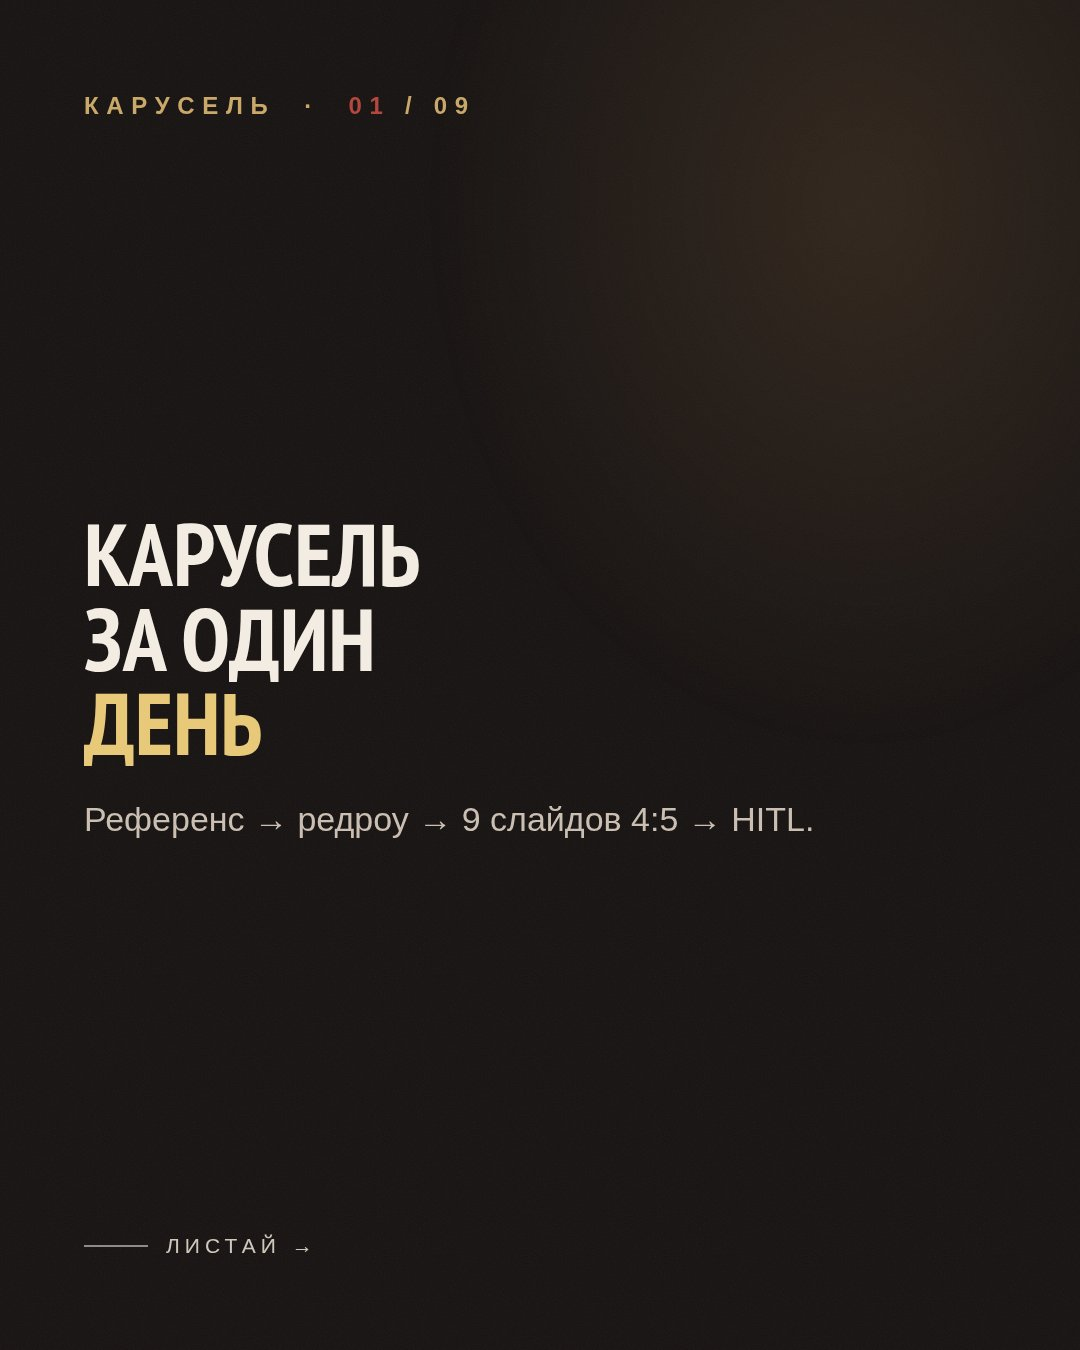
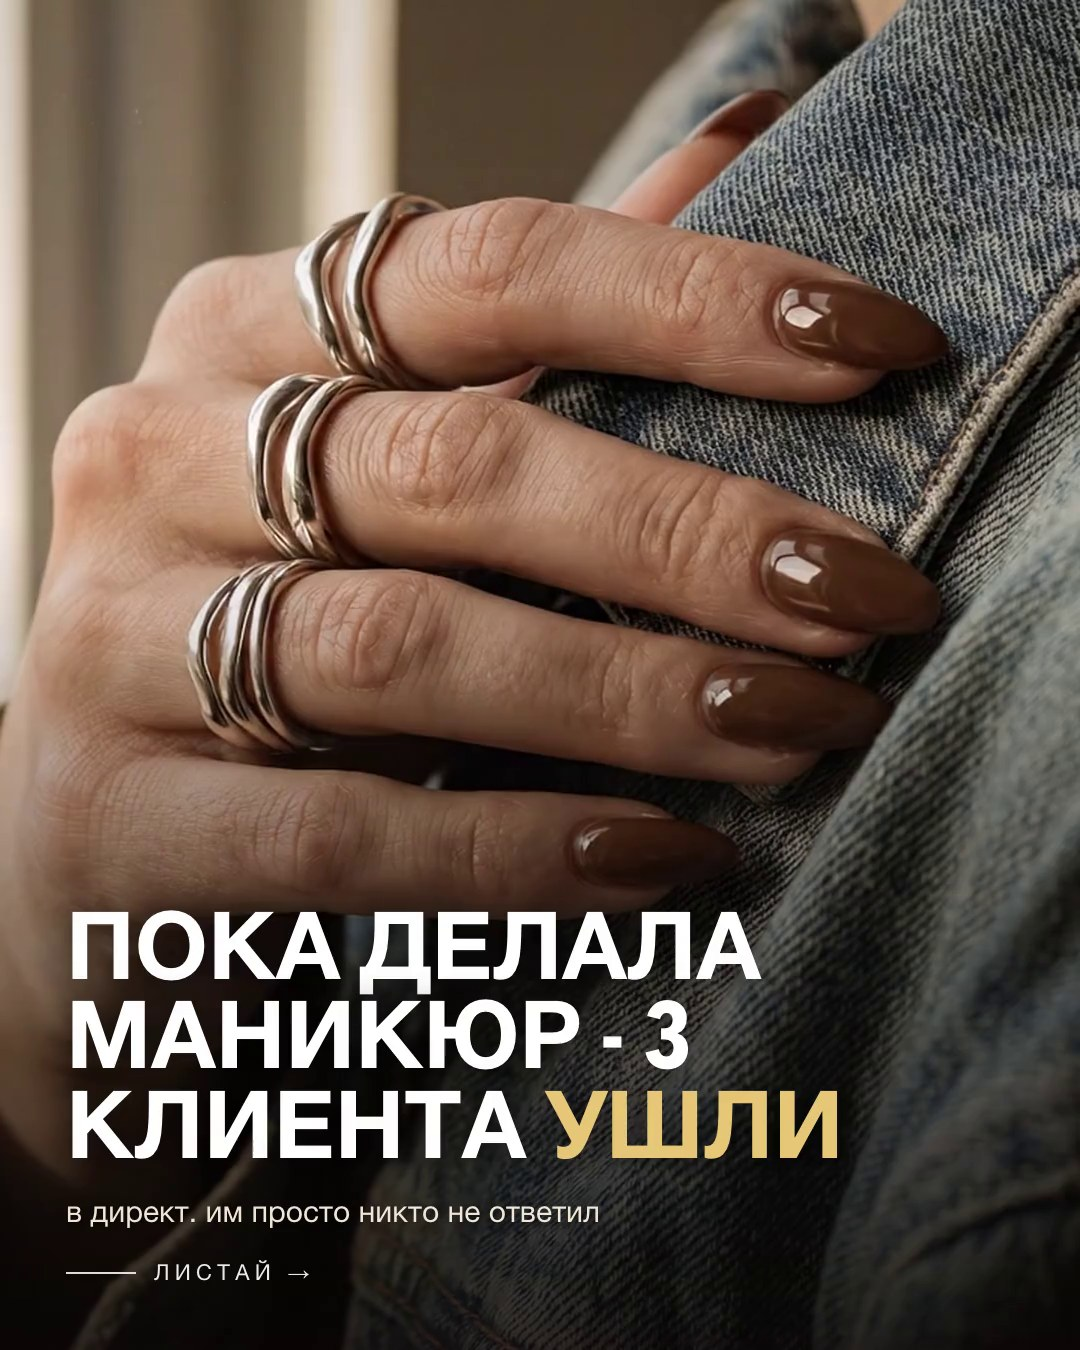
Replace carousel previews with a live run.

diff --git a/README.md b/README.md
@@ -14,11 +14,15 @@ flowchart LR
   hitl --> zernio[Zernio createPost]
 ```
 
-Так выглядит прогон: девять слайдов 4:5 и обложка.
+Живой прогон серии ЗАНАВЕС: девять слайдов 4:5. Сетка и обложка ниже, рядом гифка, mp4 в релизе demo.
 
 ![Девять слайдов](docs/slides.jpg)
 
 ![Обложка](docs/cover.jpg)
+
+![Ролик обложки](docs/cover.gif)
+
+[Тот же ролик, mp4](https://github.com/SC32br/carousel-factory/releases/download/demo/cover.mp4)
 
 ## Запуск
 
